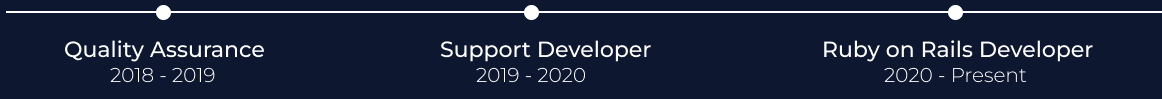
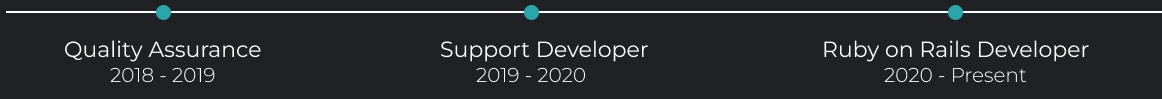
Update theme

diff --git a/index.html b/index.html
@@ -113,7 +113,7 @@
           </div>
           <div class="skills__data">
             <div class="skills__names">
-              <i class="fa fa-coffee skills__icon fa-lg"></i>
+              <i class="fab fa-brands fa-java skills__icon fa-lg"></i>
               <span class="skills__name">Java</span>
             </div>
             <div class="skills__bar skills__css">
@@ -122,7 +122,7 @@
           </div>
           <div class="skills__data">
             <div class="skills__names">
-              <i class='bx bxl-javascript skills__icon' ></i>
+              <i class="fab fa-js skills__icon fa-lg"></i>
               <span class="skills__name">jQuery</span>
             </div>
             <div class="skills__bar skills__js">
@@ -131,7 +131,7 @@
           </div>
           <div class="skills__data">
             <div class="skills__names">
-              <i class='bx bxs-paint skills__icon'></i>
+              <i class="fa fa-paint-brush skills__icon fa-lg"></i>
               <span class="skills__name">Canva, Figma</span>
             </div>
             <div class="skills__bar skills__ux">
@@ -156,23 +156,6 @@
             <ion-icon name="book-outline"></ion-icon>
           </div>
         </div>
-
-        <!-- <ol class="timeline-list">
-          <li class="timeline-item">
-            <h4 class="h4 timeline-item-title">Ruby on Rails Developer</h4>
-            <span>2020 — Present</span>
-          </li>
-
-          <li class="timeline-item">
-            <h4 class="h4 timeline-item-title">Support Developer</h4>
-            <span>2019 — 2020</span>
-          </li>
-
-          <li class="timeline-item">
-            <h4 class="h4 timeline-item-title">Quality Assurance</h4>
-            <span>2018 — 2019</span>
-          </li>
-        </ol> -->
         <img src="assets/img/experience.png"></img><br>
       </section>
       <center><h3 style="font-weight: var(--font-semi);" class="about__text">Here are a few past projects I've worked on</h3></center>
@@ -221,8 +204,8 @@
       <h2 class="section-title">Contact</h2>
 
       <div class="contact__container bd-grid">
-        <h2 class="about__text" style="font-size: larger;">Reach Out to me !</h2>
-        <p class="about__text" style="font-size: large;">Discuss a project or just want to say hi? my inbox is open for all.<p>
+        <center><h2 class="about__text" style="font-size: larger;">Reach Out to me !</h2>
+        <p class="about__text" style="font-size: large;">Discuss a project or just want to say hi? my inbox is open for all.<p></center>
           <form action="" class="contact__form">
             <input type="text" placeholder="Name" class="contact__input">
             <input type="mail" placeholder="Email" class="contact__input">

diff --git a/assets/css/styles.css b/assets/css/styles.css
@@ -8,8 +8,8 @@
   /*Purple 260 - Red 355 - Blue 224 - Pink 340*/
   /* HSL color mode */
   --hue-color: 224;
-  --first-color: hsl(var(--hue-color), 89%, 60%);
-  --second-color: hsl(var(--hue-color), 56%, 12%);
+  --first-color: #2ca4ab;
+  --second-color: #1f2125;
   /*===== Fuente y tipografia =====*/
   --body-font: 'Montserrat', sans-serif;
   --big-font-size: 30px;
@@ -113,7 +113,7 @@ img {
   top: 0;
   left: 0;
   z-index: var(--z-fixed);
-  background-color: var(--second-color);
+  background-color: #343a40;
   box-shadow: 0 1px 4px rgba(146, 161, 176, 0.15);
 }
 
@@ -257,6 +257,8 @@ img {
 
 .button:hover {
   box-shadow: 0px 10px 36px rgba(0, 0, 0, 0.15);
+  background-color: #A5C9CA;
+  color: black;
 }
 
 /* ===== ABOUT =====*/
@@ -306,6 +308,8 @@ img {
   margin-bottom: var(--mb-4);
   border-radius: .5rem;
   box-shadow: 0px 4px 25px rgba(14, 36, 49, 0.15);
+  border: 1px solid grey;
+  background-color: #343a40;
 }
 
 .skills__icon {
@@ -327,6 +331,7 @@ img {
   height: .25rem;
   border-radius: .5rem;
   z-index: var(--z-back);
+  border: 1px solid var(--first-color);
 }
 
 .skills__html {
@@ -358,6 +363,8 @@ img {
   box-shadow: 0px 4px 25px rgba(14, 36, 49, 0.15);
   border-radius: .5rem;
   overflow: hidden;
+  background-color: #343a40;
+  border: 1px solid grey;
 }
 
 .work__img img {
